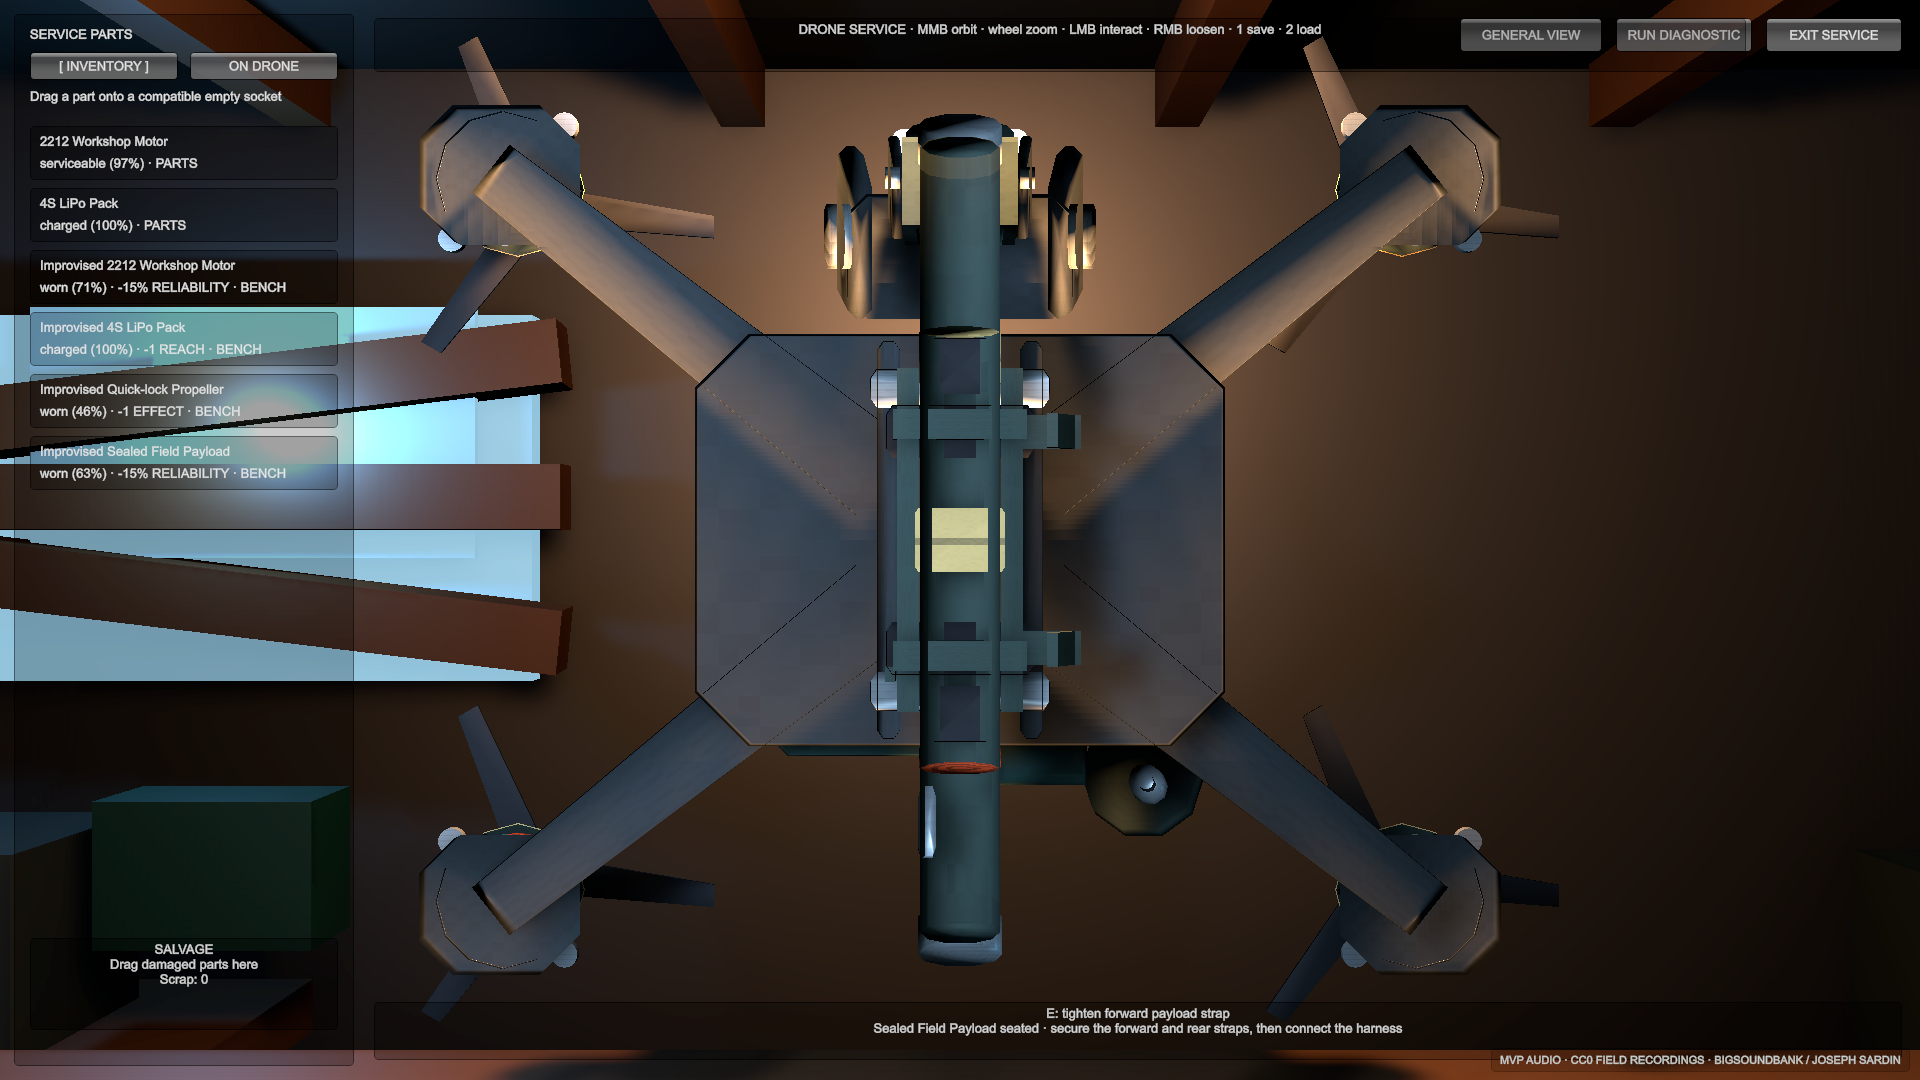
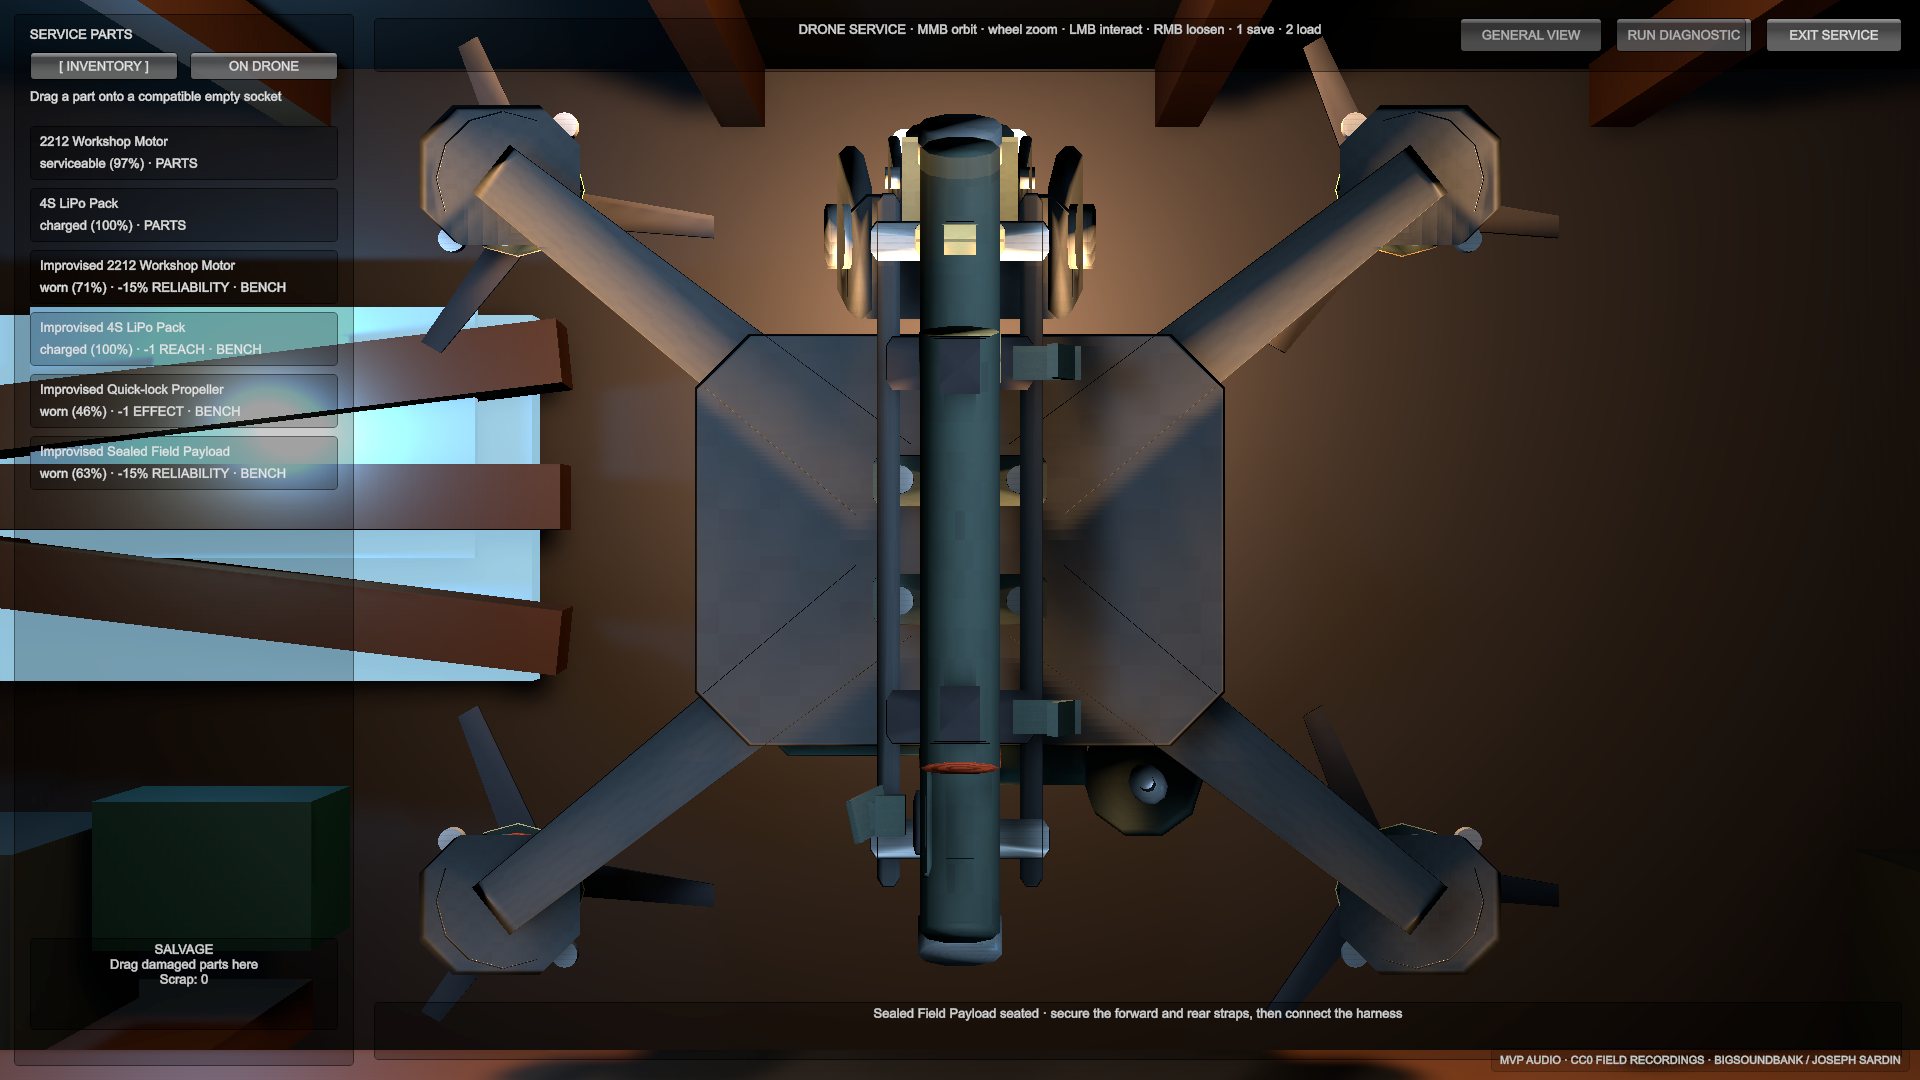
Refine payload rack visuals and harness interaction tests

Changed region(s): [[0.4375, 0.1833, 0.5938, 0.825], [0.4688, 0.9167, 0.7188, 0.9778]]

diff --git a/Assets/UnderStatic/Runtime/Lab/DroneAssemblyLabFactory.cs b/Assets/UnderStatic/Runtime/Lab/DroneAssemblyLabFactory.cs
@@ -1977,10 +1977,14 @@ namespace UnderStatic.Lab
                     PrimitiveType.Cube,
                     root.transform,
                     new Vector3(side * 0.42f, 0f, 0f),
-                    new Vector3(0.18f, 0.18f, 1.85f),
+                    new Vector3(0.18f, 0.18f, 3.55f),
                     structureMaterial,
                     true);
                 InteractionLabFactory.DisableCollider(rail);
+                if (!scratchBuild)
+                {
+                    rail.GetComponent<Renderer>().enabled = false;
+                }
             }
             foreach (var end in new[] { -1f, 1f })
             {
@@ -1988,11 +1992,15 @@ namespace UnderStatic.Lab
                     $"PayloadCradleCrossbar.{end}",
                     PrimitiveType.Cube,
                     root.transform,
-                    new Vector3(0f, -0.12f, end * 0.62f),
+                    new Vector3(0f, -0.12f, end * 1.52f),
                     new Vector3(1.08f, 0.16f, 0.16f),
                     structureMaterial,
                     true);
                 InteractionLabFactory.DisableCollider(crossbar);
+                if (!scratchBuild)
+                {
+                    crossbar.GetComponent<Renderer>().enabled = false;
+                }
             }
 
             PartSocket payloadSocket = null;
@@ -2033,8 +2041,8 @@ namespace UnderStatic.Lab
             var rearLoose = new List<Renderer>();
             foreach (var strap in new[]
                      {
-                         (Name: "Forward", Z: -0.58f, Step: StrikePayloadMountStep.ForwardStrap),
-                         (Name: "Rear", Z: 0.58f, Step: StrikePayloadMountStep.RearStrap)
+                         (Name: "Forward", Z: -0.95f, Step: StrikePayloadMountStep.ForwardStrap),
+                         (Name: "Rear", Z: 0.95f, Step: StrikePayloadMountStep.RearStrap)
                      })
             {
                 var secured = InteractionLabFactory.CreatePrimitive(
@@ -2095,21 +2103,44 @@ namespace UnderStatic.Lab
 
             var harness = new GameObject("PayloadControlHarness");
             harness.transform.SetParent(root.transform, false);
-            harness.transform.localPosition = new Vector3(-0.56f, -0.08f, 0.72f);
-            var cable = InteractionLabFactory.CreatePrimitive(
-                "PayloadHarnessCable",
+            harness.transform.localPosition = new Vector3(-0.56f, -0.08f, 1.48f);
+            var harnessCableMaterial = InteractionLabFactory.CreateMaterial(
+                "Payload Harness Cable",
+                new Color(0.055f, 0.07f, 0.065f));
+            var harnessSocket = InteractionLabFactory.CreatePrimitive(
+                "PayloadHarnessBulkheadSocket",
                 PrimitiveType.Cube,
                 harness.transform,
-                new Vector3(0f, 0.22f, 0f),
-                new Vector3(0.08f, 0.48f, 0.08f),
+                Vector3.zero,
+                new Vector3(0.24f, 0.2f, 0.22f),
                 retentionMaterial,
                 true);
-            InteractionLabFactory.DisableCollider(cable);
+            InteractionLabFactory.DisableCollider(harnessSocket);
+            var connectedCable = InteractionLabFactory.CreatePrimitive(
+                "PayloadHarnessCableConnected",
+                PrimitiveType.Cube,
+                harness.transform,
+                new Vector3(0.15f, 0.08f, 0f),
+                new Vector3(0.14f, 0.36f, 0.14f),
+                harnessCableMaterial,
+                true);
+            connectedCable.transform.localRotation = Quaternion.Euler(0f, 0f, -62f);
+            InteractionLabFactory.DisableCollider(connectedCable);
+            var looseCable = InteractionLabFactory.CreatePrimitive(
+                "PayloadHarnessCableLoose",
+                PrimitiveType.Cube,
+                harness.transform,
+                new Vector3(-0.09f, 0.04f, 0f),
+                new Vector3(0.14f, 0.22f, 0.14f),
+                harnessCableMaterial,
+                true);
+            looseCable.transform.localRotation = Quaternion.Euler(0f, 0f, 66f);
+            InteractionLabFactory.DisableCollider(looseCable);
             var connectedPlug = InteractionLabFactory.CreatePrimitive(
                 "PayloadHarnessPlugConnected",
                 PrimitiveType.Cube,
                 harness.transform,
-                new Vector3(0f, 0.48f, 0f),
+                new Vector3(0.32f, 0.16f, 0f),
                 new Vector3(0.28f, 0.16f, 0.24f),
                 retentionMaterial,
                 true);
@@ -2118,17 +2149,17 @@ namespace UnderStatic.Lab
                 "PayloadHarnessPlugLoose",
                 PrimitiveType.Cube,
                 harness.transform,
-                new Vector3(0.24f, 0.24f, 0.05f),
+                new Vector3(-0.18f, 0.08f, 0f),
                 new Vector3(0.28f, 0.16f, 0.24f),
                 retentionMaterial,
                 true);
-            loosePlug.transform.localRotation = Quaternion.Euler(0f, 18f, -28f);
+            loosePlug.transform.localRotation = Quaternion.Euler(0f, 18f, 18f);
             InteractionLabFactory.DisableCollider(loosePlug);
             var harnessTargetObject = new GameObject("PayloadControlHarnessTarget");
             harnessTargetObject.transform.SetParent(harness.transform, false);
-            harnessTargetObject.transform.localPosition = new Vector3(0.12f, 0.34f, 0.02f);
+            harnessTargetObject.transform.localPosition = new Vector3(0.22f, 0.38f, 0.02f);
             var harnessTargetCollider = harnessTargetObject.AddComponent<BoxCollider>();
-            harnessTargetCollider.size = new Vector3(0.58f, 0.54f, 0.48f);
+            harnessTargetCollider.size = new Vector3(0.9f, 0.9f, 0.48f);
             var harnessTarget = harnessTargetObject.AddComponent<StrikePayloadMountStepTarget>();
             harnessTarget.Configure(null, StrikePayloadMountStep.ControlHarness);
             targets.Add(harnessTarget);
@@ -2146,8 +2177,16 @@ namespace UnderStatic.Lab
                 forwardLoose,
                 rearSecured,
                 rearLoose,
-                new[] { connectedPlug.GetComponent<Renderer>() },
-                new[] { loosePlug.GetComponent<Renderer>() },
+                new[]
+                {
+                    connectedCable.GetComponent<Renderer>(),
+                    connectedPlug.GetComponent<Renderer>()
+                },
+                new[]
+                {
+                    looseCable.GetComponent<Renderer>(),
+                    loosePlug.GetComponent<Renderer>()
+                },
                 payloadSocket);
 
             if (scratchBuild)

diff --git a/Assets/UnderStatic/Runtime/Visuals/PsxVisualFactory.cs b/Assets/UnderStatic/Runtime/Visuals/PsxVisualFactory.cs
@@ -646,22 +646,29 @@ namespace UnderStatic.Visuals
             {
                 CreateMesh($"RackRail.{side}", detail, new Vector3(side * 0.58f, 0.16f, 0f),
                     Quaternion.identity, Vector3.one,
-                    kit.RegisterMesh(PsxMeshFactory.ChamferedBox(new Vector3(0.18f, 0.22f, 2.15f), 0.045f)),
+                    kit.RegisterMesh(PsxMeshFactory.ChamferedBox(new Vector3(0.18f, 0.22f, 3.75f), 0.045f)),
                     composite);
             }
             for (var end = -1; end <= 1; end += 2)
             {
-                CreateMesh($"RackCrossbar.{end}", detail, new Vector3(0f, 0.12f, end * 0.82f),
+                CreateMesh($"RackCrossbar.{end}", detail, new Vector3(0f, 0.12f, end * 1.62f),
                     Quaternion.identity, Vector3.one,
                     kit.RegisterMesh(PsxMeshFactory.ChamferedBox(new Vector3(1.45f, 0.2f, 0.2f), 0.045f)),
                     metal);
             }
             for (var saddle = -1; saddle <= 1; saddle += 2)
             {
-                CreateMesh($"RackSaddle.{saddle}", detail, new Vector3(0f, -0.08f, saddle * 0.58f),
+                CreateMesh($"RackSaddle.{saddle}", detail, new Vector3(0f, -0.08f, saddle * 0.95f),
                     Quaternion.identity, Vector3.one,
                     kit.RegisterMesh(PsxMeshFactory.ChamferedBox(new Vector3(1.18f, 0.2f, 0.28f), 0.045f)),
                     rubber);
+            }
+            for (var mount = -1; mount <= 1; mount += 2)
+            {
+                CreateMesh($"RackAirframeMountingBridge.{mount}", detail,
+                    new Vector3(0f, 0.82f, mount * 0.33f), Quaternion.identity, Vector3.one,
+                    kit.RegisterMesh(PsxMeshFactory.ChamferedBox(new Vector3(1.45f, 0.18f, 0.28f), 0.045f)),
+                    painted);
             }
 
             // Charge-based legacy fixtures keep their old sealed silhouette. Safe House racks never show it.
@@ -681,8 +688,8 @@ namespace UnderStatic.Visuals
 
             var spent = new GameObject("SpentPayloadMarker").transform;
             spent.SetParent(detail, false);
-            CreateMesh("EmptyCradleTag", spent, new Vector3(0f, -0.18f, 0f), Quaternion.identity, Vector3.one,
-                kit.RegisterMesh(PsxMeshFactory.ChamferedBox(new Vector3(0.72f, 0.08f, 0.34f), 0.025f)), label);
+            CreateMesh("EmptyCradleTag", spent, new Vector3(0f, -0.02f, -1.62f), Quaternion.identity, Vector3.one,
+                kit.RegisterMesh(PsxMeshFactory.ChamferedBox(new Vector3(0.72f, 0.08f, 0.16f), 0.025f)), label);
         }
 
         private static void CreateSealedPayloadVisual(Transform detail, PsxVisualKit kit)
@@ -713,9 +720,12 @@ namespace UnderStatic.Visuals
                     Quaternion.identity, Vector3.one,
                     kit.RegisterMesh(PsxMeshFactory.ChamferedBox(new Vector3(0.72f, 0.08f, 0.22f), 0.025f)), rubber);
             }
-            CreateMesh("PayloadHarnessPort", detail, new Vector3(-0.42f, 0.08f, 1.12f),
+            CreateMesh("PayloadHarnessPortFlange", detail, new Vector3(-0.43f, 0.08f, 1.12f),
                 Quaternion.identity, Vector3.one,
-                kit.RegisterMesh(PsxMeshFactory.ChamferedBox(new Vector3(0.22f, 0.2f, 0.28f), 0.04f)), metal);
+                kit.RegisterMesh(PsxMeshFactory.ChamferedBox(new Vector3(0.14f, 0.3f, 0.42f), 0.035f)), painted);
+            CreateMesh("PayloadHarnessPort", detail, new Vector3(-0.51f, 0.08f, 1.12f),
+                Quaternion.identity, Vector3.one,
+                kit.RegisterMesh(PsxMeshFactory.ChamferedBox(new Vector3(0.16f, 0.18f, 0.25f), 0.035f)), rubber);
         }
 
         public static Transform[] CreateSalvageIntakeCrate(Transform parent, PsxVisualKit kit)

diff --git a/Assets/UnderStatic/Tests/PlayMode/Milestone07FrontlinePlayModeTests.cs b/Assets/UnderStatic/Tests/PlayMode/Milestone07FrontlinePlayModeTests.cs
@@ -84,9 +84,28 @@ namespace UnderStatic.Tests.PlayMode
                 .Single(part => part.name == "FieldStrikeRack");
             var payloadSocket = rack.GetComponentsInChildren<PartSocket>(true)
                 .Single(socket => socket.AcceptedPrimaryCategory == PartCategory.Payload);
+            var rackRail = rack.transform.Find("PSX_PartDetail/RackRail.-1");
+            var looseHarnessCable = rack.transform.Find(
[1 lines of base64/hex data omitted]
+                .GetComponent<Renderer>();
+            var looseHarnessPlug = rack.transform.Find(
[1 lines of base64/hex data omitted]
+                .GetComponent<Renderer>();
+            var harnessSocket = rack.transform.Find(
[1 lines of base64/hex data omitted]
+                .GetComponent<Renderer>();
 
             Assert.That(payloadSocket.InstallationPrerequisite?.AcceptedPrimaryCategory,
                 Is.EqualTo(PartCategory.StrikeRack));
+            Assert.That(rackRail.GetComponent<MeshFilter>().sharedMesh.bounds.size.z,
+                Is.GreaterThanOrEqualTo(3.7f));
+            Assert.That(rack.transform.Find("PSX_PartDetail/RackAirframeMountingBridge.-1"), Is.Not.Null);
+            Assert.That(rack.transform.Find("PSX_PartDetail/RackAirframeMountingBridge.1"), Is.Not.Null);
+            Assert.That(rack.transform.Find("PayloadMountFunctional/PayloadCradleRail.-1")
+                .GetComponent<Renderer>().enabled, Is.False);
+            Assert.That(looseHarnessCable.bounds.Intersects(looseHarnessPlug.bounds), Is.True);
+            Assert.That(looseHarnessCable.bounds.Intersects(harnessSocket.bounds), Is.True);
+            Assert.That(payload.transform.Find("PSX_PartDetail/PayloadHarnessPortFlange"), Is.Not.Null);
             var serviceDrone = Object.FindAnyObjectByType<FleetSystem>().ServiceDrone.transform;
             var originalPosition = serviceDrone.position;
             var originalRotation = serviceDrone.rotation;